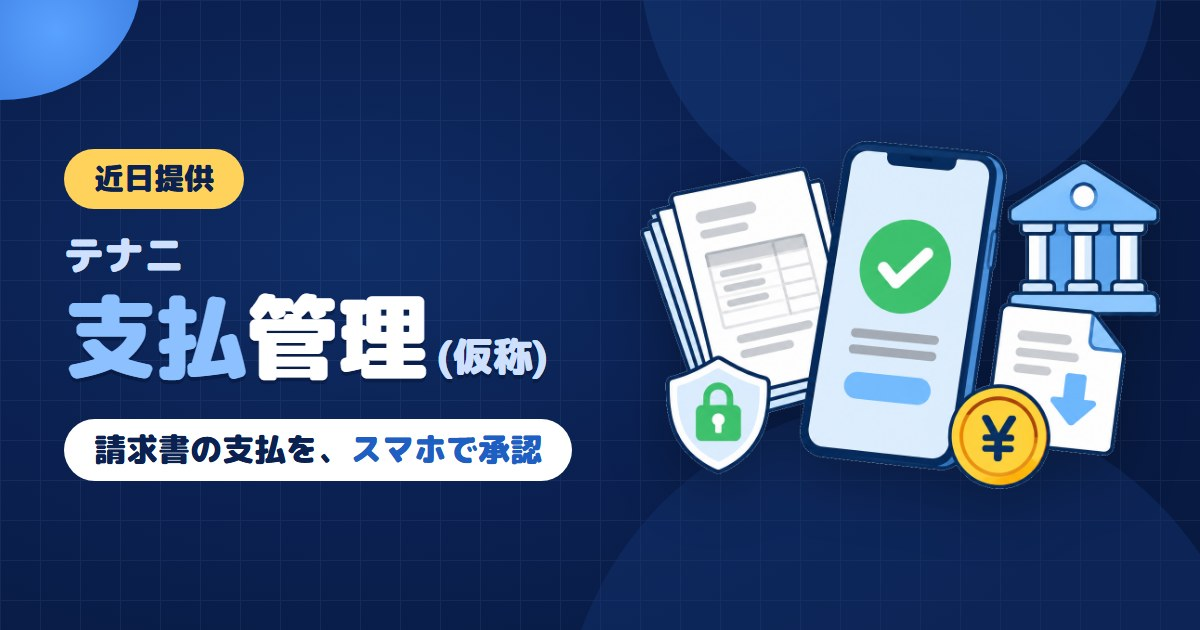
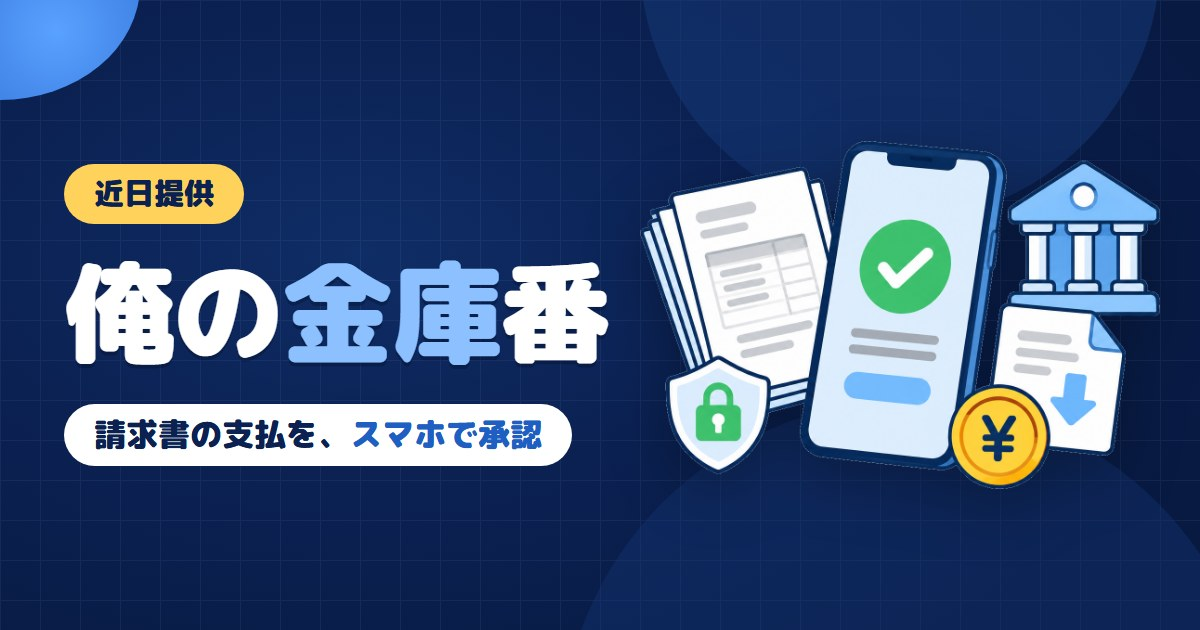
商品名を変更: 名刺・経費クラウド → 俺の精算係、テナニ 支払管理(仮称) → 俺の金庫番。カード画像・画面写真の表示名も差し替え、「テナニ」をサイトから外す
Claude-Session: https://claude.ai/code/session_01P8GfC6i6qUkQG9xHNCAYyn

Changed region(s): [[0.0308, 0.2111, 0.5242, 0.6032], [0.0308, 0.6333, 0.4933, 0.7841]]

diff --git a/meishi-keihi/index.html b/meishi-keihi/index.html
@@ -3,7 +3,7 @@
 <head>
 <meta charset="utf-8">
 <meta name="viewport" content="width=device-width, initial-scale=1, viewport-fit=cover">
-<title>名刺・経費クラウド｜レシートはLINEで送るだけの経費精算・名刺管理｜DX職人</title>
+<title>俺の精算係｜レシートはLINEで送るだけの経費精算・名刺管理｜DX職人</title>
 <meta name="description" content="レシートの写真をLINEで送ると、AIが金額・日付・支払先を読み取ります。事務担当はスマホやパソコンで承認し、freee向けの取込ファイルにまとめます。名刺も同じLINEで登録。一人親方から少人数の工務店まで。">
 <meta name="theme-color" content="#0b1f3f">
 <link rel="icon" type="image/png" sizes="32x32" href="../assets/brand/favicon-32.png">
@@ -14,14 +14,14 @@
 <meta property="og:type" content="website">
 <meta property="og:site_name" content="DX職人">
 <meta property="og:locale" content="ja_JP">
-<meta property="og:title" content="名刺・経費クラウド｜レシートはLINEで送るだけ｜DX職人">
+<meta property="og:title" content="俺の精算係｜レシートはLINEで送るだけ｜DX職人">
 <meta property="og:description" content="レシートの写真をLINEで送ると、AIが金額・日付・支払先を読み取ります。事務担当が承認して、freee向けの取込ファイルに。名刺も同じLINEで登録できます。">
 <meta property="og:url" content="https://dx-syokunin.jp/meishi-keihi/">
 <meta property="og:image" content="https://dx-syokunin.jp/assets/meishi-keihi.jpg">
 <meta name="twitter:card" content="summary_large_image">
-<script type="application/ld+json">{"@context": "https://schema.org", "@graph": [{"@type": "WebPage", "@id": "https://dx-syokunin.jp/meishi-keihi/", "url": "https://dx-syokunin.jp/meishi-keihi/", "name": "名刺・経費クラウド｜レシートはLINEで送るだけの経費精算・名刺管理｜DX職人", "inLanguage": "ja", "isPartOf": {"@id": "https://dx-syokunin.jp/#website"}, "primaryImageOfPage": {"@type": "ImageObject", "url": "https://dx-syokunin.jp/assets/meishi-keihi.jpg"}}, {"@type": "BreadcrumbList", "itemListElement": [{"@type": "ListItem", "position": 1, "name": "DX職人", "item": "https://dx-syokunin.jp/"}, {"@type": "ListItem", "position": 2, "name": "名刺・経費クラウド", "item": "https://dx-syokunin.jp/meishi-keihi/"}]}, {"@type": "FAQPage", "mainEntity": [{"@type": "Question", "name": "現場のスタッフにアプリを入れてもらう必要はありますか？", "acceptedAnswer": {"@type": "Answer", "text": "いりません。会社のLINE公式アカウントを友だち追加して、レシートの写真を送るだけです。事務担当・社長はスマホかパソコンのブラウザで確認します。"}}, {"@type": "Question", "name": "ひとりでも使えますか？", "acceptedAnswer": {"@type": "Answer", "text": "使えます。「ひとり利用」では、承認する人がいなくても、本人が内容を確かめて登録すれば完了です。スタッフがいる会社は「チーム利用」で、スタッフが申請して社長や事務担当が承認します。"}}, {"@type": "Question", "name": "AIが読み間違えたら？", "acceptedAnswer": {"@type": "Answer", "text": "申請の前に、届いたカードをレシートと見比べてもらいます。違うところは「金額」「日付」「支払先」のボタンを押して直せます。読み取れなかったときは、質問に答えるだけで手で登録できます。人が直したところには ✏ の印が付きます。"}}, {"@type": "Question", "name": "freeeに自動で入りますか？", "acceptedAnswer": {"@type": "Answer", "text": "自動では入りません。freeeの「取引のインポート」用のファイルを作るところまでです。そのファイルをfreeeに取り込み、取り込めたことをこの画面に記録してもらいます。一度出力した経費は、次のファイルに自動では入りません。"}}, {"@type": "Question", "name": "freee以外の会計ソフトでも使えますか？", "acceptedAnswer": {"@type": "Answer", "text": "会計用のファイルは、freeeの取引インポートの形だけです。経費の一覧(台帳CSV)は取り出せますが、会計ソフトへの取り込み用ではありません。"}}, {"@type": "Question", "name": "AIにはどんな情報が送られますか？", "acceptedAnswer": {"@type": "Answer", "text": "読み取りのときに、レシートまたは名刺の画像1枚と、読み取りの指示だけを送ります。会社名・利用者の名前・ほかの経費は送りません。送り先はOpenAIで、応答を保存しない設定で送ります。"}}]}]}</script>
+<script type="application/ld+json">{"@context": "https://schema.org", "@graph": [{"@type": "WebPage", "@id": "https://dx-syokunin.jp/meishi-keihi/", "url": "https://dx-syokunin.jp/meishi-keihi/", "name": "俺の精算係｜レシートはLINEで送るだけの経費精算・名刺管理｜DX職人", "inLanguage": "ja", "isPartOf": {"@id": "https://dx-syokunin.jp/#website"}, "primaryImageOfPage": {"@type": "ImageObject", "url": "https://dx-syokunin.jp/assets/meishi-keihi.jpg"}}, {"@type": "BreadcrumbList", "itemListElement": [{"@type": "ListItem", "position": 1, "name": "DX職人", "item": "https://dx-syokunin.jp/"}, {"@type": "ListItem", "position": 2, "name": "俺の精算係", "item": "https://dx-syokunin.jp/meishi-keihi/"}]}, {"@type": "FAQPage", "mainEntity": [{"@type": "Question", "name": "現場のスタッフにアプリを入れてもらう必要はありますか？", "acceptedAnswer": {"@type": "Answer", "text": "いりません。会社のLINE公式アカウントを友だち追加して、レシートの写真を送るだけです。事務担当・社長はスマホかパソコンのブラウザで確認します。"}}, {"@type": "Question", "name": "ひとりでも使えますか？", "acceptedAnswer": {"@type": "Answer", "text": "使えます。「ひとり利用」では、承認する人がいなくても、本人が内容を確かめて登録すれば完了です。スタッフがいる会社は「チーム利用」で、スタッフが申請して社長や事務担当が承認します。"}}, {"@type": "Question", "name": "AIが読み間違えたら？", "acceptedAnswer": {"@type": "Answer", "text": "申請の前に、届いたカードをレシートと見比べてもらいます。違うところは「金額」「日付」「支払先」のボタンを押して直せます。読み取れなかったときは、質問に答えるだけで手で登録できます。人が直したところには ✏ の印が付きます。"}}, {"@type": "Question", "name": "freeeに自動で入りますか？", "acceptedAnswer": {"@type": "Answer", "text": "自動では入りません。freeeの「取引のインポート」用のファイルを作るところまでです。そのファイルをfreeeに取り込み、取り込めたことをこの画面に記録してもらいます。一度出力した経費は、次のファイルに自動では入りません。"}}, {"@type": "Question", "name": "freee以外の会計ソフトでも使えますか？", "acceptedAnswer": {"@type": "Answer", "text": "会計用のファイルは、freeeの取引インポートの形だけです。経費の一覧(台帳CSV)は取り出せますが、会計ソフトへの取り込み用ではありません。"}}, {"@type": "Question", "name": "AIにはどんな情報が送られますか？", "acceptedAnswer": {"@type": "Answer", "text": "読み取りのときに、レシートまたは名刺の画像1枚と、読み取りの指示だけを送ります。会社名・利用者の名前・ほかの経費は送りません。送り先はOpenAIで、応答を保存しない設定で送ります。"}}]}]}</script>
 <link rel="stylesheet" href="../style.css?v=20261019a">
-<link rel="stylesheet" href="lp.css?v=20261025a">
+<link rel="stylesheet" href="lp.css?v=20261026a">
 <script>document.documentElement.classList.add('has-js');</script>
 <script async src="https://www.googletagmanager.com/gtag/js?id=G-XTC6JTLR8Z"></script>
 <script>window.dataLayer=window.dataLayer||[];function gtag(){dataLayer.push(arguments)}gtag('js',new Date());gtag('config','G-XTC6JTLR8Z');</script>
@@ -88,7 +88,7 @@
 <section class="mk-hero" aria-labelledby="mk-title">
   <div class="wrap mk-hero__inner">
     <div class="mk-hero__text">
-      <nav class="crumb mk-crumb" aria-label="現在の位置"><ol><li><a href="../">DX職人</a></li><li><a href="../#system">システム提供</a></li><li aria-current="page">名刺・経費クラウド</li></ol></nav>
+      <nav class="crumb mk-crumb" aria-label="現在の位置"><ol><li><a href="../">DX職人</a></li><li><a href="../#system">システム提供</a></li><li aria-current="page">俺の精算係</li></ol></nav>
       <p class="mk-eyebrow">経費精算・名刺管理 × LINE</p>
       <h1 id="mk-title"><span class="ph">レシートは、</span><br><span class="ph"><em>LINEで送るだけ。</em></span></h1>
       <p class="mk-hero__lead">現場で立て替えたレシートも、月末の打ち込みも、たまった名刺も。<br class="pc-only">現場の人はいつものLINE、事務担当はスマホかパソコンの画面で片づける、経費精算と名刺管理のシステムです。</p>
@@ -531,7 +531,7 @@
       <a class="cta dark" href="../contact/">フォームで相談する</a>
       <a class="cta light" href="https://lin.ee/XTtHzzq" target="_blank" rel="noopener">LINEで相談する</a>
     </div>
-    <p class="contact__note">相談は無料です。「名刺・経費クラウドについて」とひとことお送りください。</p>
+    <p class="contact__note">相談は無料です。「俺の精算係について」とひとことお送りください。</p>
     <p class="contact__mail">メールでのご相談も受け付けています：<a href="mailto:info@senwa-inc.com">info@senwa-inc.com</a></p>
   </div>
 </section>
@@ -559,7 +559,7 @@
 </footer>
 
 <div class="mobile-cta" id="mobileCta">
-  <a class="cta" href="../contact/">名刺・経費クラウドの導入を相談する</a>
+  <a class="cta" href="../contact/">俺の精算係の導入を相談する</a>
 </div>
 
 <script src="../script.js?v=20261019a" defer></script>

diff --git a/shiharai-kanri/index.html b/shiharai-kanri/index.html
@@ -3,7 +3,7 @@
 <head>
 <meta charset="utf-8">
 <meta name="viewport" content="width=device-width, initial-scale=1, viewport-fit=cover">
-<title>テナニ 支払管理(仮称)｜請求書の支払を社長がスマホで承認し、振込ファイルまで｜DX職人</title>
+<title>俺の金庫番｜請求書の支払を社長がスマホで承認し、振込ファイルまで｜DX職人</title>
 <meta name="description" content="取引先から届いた請求書を登録し、社長がスマホで金額・相手・振込先を確かめて承認。承認した内容から銀行に持ち込む振込ファイル(全銀形式)を作り、銀行の明細と照らして支払済みを記録します。経理担当と社長のいる会社向け。近日提供。">
 <meta name="theme-color" content="#0b1f3f">
 <link rel="icon" type="image/png" sizes="32x32" href="../assets/brand/favicon-32.png">
@@ -14,12 +14,12 @@
 <meta property="og:type" content="website">
 <meta property="og:site_name" content="DX職人">
 <meta property="og:locale" content="ja_JP">
-<meta property="og:title" content="テナニ 支払管理(仮称)｜請求書の支払、社長はスマホで承認｜DX職人">
+<meta property="og:title" content="俺の金庫番｜請求書の支払、社長はスマホで承認｜DX職人">
 <meta property="og:description" content="請求書を登録し、社長がスマホで承認。承認した内容から銀行に持ち込む振込ファイル(全銀形式)を作り、銀行の明細と照らして支払済みを記録します。近日提供。">
 <meta property="og:url" content="https://dx-syokunin.jp/shiharai-kanri/">
 <meta property="og:image" content="https://dx-syokunin.jp/assets/shiharai-kanri.jpg">
 <meta name="twitter:card" content="summary_large_image">
-<script type="application/ld+json">{"@context": "https://schema.org", "@graph": [{"@type": "WebPage", "@id": "https://dx-syokunin.jp/shiharai-kanri/", "url": "https://dx-syokunin.jp/shiharai-kanri/", "name": "テナニ 支払管理(仮称)｜請求書の支払を社長がスマホで承認し、振込ファイルまで｜DX職人", "inLanguage": "ja", "isPartOf": {"@id": "https://dx-syokunin.jp/#website"}, "primaryImageOfPage": {"@type": "ImageObject", "url": "https://dx-syokunin.jp/assets/shiharai-kanri.jpg"}}, {"@type": "BreadcrumbList", "itemListElement": [{"@type": "ListItem", "position": 1, "name": "DX職人", "item": "https://dx-syokunin.jp/"}, {"@type": "ListItem", "position": 2, "name": "テナニ 支払管理(仮称)", "item": "https://dx-syokunin.jp/shiharai-kanri/"}]}, {"@type": "FAQPage", "mainEntity": [{"@type": "Question", "name": "銀行に自動で振り込みますか？", "acceptedAnswer": {"@type": "Answer", "text": "いいえ。銀行に持ち込む振込ファイル(全銀形式)を作るところまでです。ファイルを銀行の法人向けネットバンキングに取り込んで振り込む操作は、お客さまが銀行の画面で行います。"}}, {"@type": "Question", "name": "どの銀行で使えますか？", "acceptedAnswer": {"@type": "Answer", "text": "全銀協が決めた形(総合振込)のファイルを作ります。ただし、特定の銀行で実際に取り込めるかは、まだ確かめていません。導入のときに、お使いの銀行で確かめていただく必要があります。"}}, {"@type": "Question", "name": "社長はスマホで承認できますか？", "acceptedAnswer": {"@type": "Answer", "text": "できます。スマホのブラウザで、金額・相手・振込先(口座番号の下4桁と名義)・予定日・請求書を見て「承認する」か「差し戻す」を押します。承認しただけでは振込は行われません。"}}, {"@type": "Question", "name": "社長がひとりで全部やることはできますか？", "acceptedAnswer": {"@type": "Answer", "text": "できません。支払予定を作った本人は、その予定を承認できない作りです。請求を登録する人と承認する人の、少なくとも2人が要ります。"}}, {"@type": "Question", "name": "請求書を写真で読み取りますか？", "acceptedAnswer": {"@type": "Answer", "text": "読み取りません。請求書のPDFや写真は「原本」として付けて保存し、金額などは人が入力します。"}}]}]}</script>
+<script type="application/ld+json">{"@context": "https://schema.org", "@graph": [{"@type": "WebPage", "@id": "https://dx-syokunin.jp/shiharai-kanri/", "url": "https://dx-syokunin.jp/shiharai-kanri/", "name": "俺の金庫番｜請求書の支払を社長がスマホで承認し、振込ファイルまで｜DX職人", "inLanguage": "ja", "isPartOf": {"@id": "https://dx-syokunin.jp/#website"}, "primaryImageOfPage": {"@type": "ImageObject", "url": "https://dx-syokunin.jp/assets/shiharai-kanri.jpg"}}, {"@type": "BreadcrumbList", "itemListElement": [{"@type": "ListItem", "position": 1, "name": "DX職人", "item": "https://dx-syokunin.jp/"}, {"@type": "ListItem", "position": 2, "name": "俺の金庫番", "item": "https://dx-syokunin.jp/shiharai-kanri/"}]}, {"@type": "FAQPage", "mainEntity": [{"@type": "Question", "name": "銀行に自動で振り込みますか？", "acceptedAnswer": {"@type": "Answer", "text": "いいえ。銀行に持ち込む振込ファイル(全銀形式)を作るところまでです。ファイルを銀行の法人向けネットバンキングに取り込んで振り込む操作は、お客さまが銀行の画面で行います。"}}, {"@type": "Question", "name": "どの銀行で使えますか？", "acceptedAnswer": {"@type": "Answer", "text": "全銀協が決めた形(総合振込)のファイルを作ります。ただし、特定の銀行で実際に取り込めるかは、まだ確かめていません。導入のときに、お使いの銀行で確かめていただく必要があります。"}}, {"@type": "Question", "name": "社長はスマホで承認できますか？", "acceptedAnswer": {"@type": "Answer", "text": "できます。スマホのブラウザで、金額・相手・振込先(口座番号の下4桁と名義)・予定日・請求書を見て「承認する」か「差し戻す」を押します。承認しただけでは振込は行われません。"}}, {"@type": "Question", "name": "社長がひとりで全部やることはできますか？", "acceptedAnswer": {"@type": "Answer", "text": "できません。支払予定を作った本人は、その予定を承認できない作りです。請求を登録する人と承認する人の、少なくとも2人が要ります。"}}, {"@type": "Question", "name": "請求書を写真で読み取りますか？", "acceptedAnswer": {"@type": "Answer", "text": "読み取りません。請求書のPDFや写真は「原本」として付けて保存し、金額などは人が入力します。"}}]}]}</script>
 <link rel="stylesheet" href="../style.css?v=20261026a">
 <link rel="stylesheet" href="lp.css?v=20261026a">
 <script>document.documentElement.classList.add('has-js');</script>
@@ -86,9 +86,9 @@
 <section class="sk-hero" aria-labelledby="sk-title">
   <div class="wrap sk-hero__inner">
     <div class="sk-hero__text">
-      <nav class="crumb sk-crumb" aria-label="現在の位置"><ol><li><a href="../">DX職人</a></li><li><a href="../#system">システム提供</a></li><li aria-current="page">テナニ 支払管理(仮称)</li></ol></nav>
+      <nav class="crumb sk-crumb" aria-label="現在の位置"><ol><li><a href="../">DX職人</a></li><li><a href="../#system">システム提供</a></li><li aria-current="page">俺の金庫番</li></ol></nav>
       <p class="sk-eyebrow"><span class="sk-soon">近日提供</span>請求書の支払・振込</p>
-      <p class="sk-name">テナニ 支払管理<small>(仮称)</small></p>
+      <p class="sk-name">俺の金庫番</p>
       <h1 id="sk-title"><span class="ph">請求書の支払、</span><br><span class="ph"><em>社長はスマホで承認。</em></span></h1>
       <p class="sk-hero__lead">取引先から届いた請求書を登録し、社長がスマホで金額・相手・振込先を確かめて承認。<br class="pc-only">承認した内容から、銀行に持ち込む振込ファイル(全銀形式)を作り、銀行の明細と照らして支払済みを記録します。</p>
       <ul class="sk-hero__points">

diff --git a/index.html b/index.html
@@ -671,9 +671,9 @@
         <p class="fine">「俺の事務員」のサイト(line-jimuin.link)が開きます。</p>
       </article>
       <article class="product-card" id="meishi-keihi">
-        <a class="product-card__hero" href="meishi-keihi/"><img src="assets/meishi-keihi.jpg" width="1200" height="630" loading="lazy" alt="名刺・経費クラウド - レシートをLINEで送って経費精算と名刺管理"></a>
+        <a class="product-card__hero" href="meishi-keihi/"><img src="assets/meishi-keihi.jpg" width="1200" height="630" loading="lazy" alt="俺の精算係 - レシートをLINEで送って経費精算と名刺管理"></a>
         <span class="product-card__tag">経費精算・名刺管理</span>
-        <h3 class="product-card__name">名刺・経費クラウド</h3>
+        <h3 class="product-card__name">俺の精算係</h3>
         <p class="product-card__catch"><span class="ph">レシートはLINEで送るだけ。</span><span class="ph">経費の精算と名刺の整理に。</span></p>
         <p class="product-card__text">レシートの写真をLINEで送ると、AIが金額・日付・支払先を読み取ります。確かめて申請し、事務担当がスマホやパソコンで承認。freee向けの取込ファイルにまとめます。名刺も同じLINEで登録できます。一人親方から少人数の会社向けです。</p>
         <ul class="check-list">
@@ -681,17 +681,17 @@
           <li><svg class="icon" aria-hidden="true"><use href="#i-circle-check"/></svg>読めない時はボタンで答えて手入力</li>
           <li><svg class="icon" aria-hidden="true"><use href="#i-circle-check"/></svg>freee向けの取込ファイルを作成</li>
         </ul>
-        <a class="cta" href="meishi-keihi/">名刺・経費クラウドを詳しく見る<svg class="icon" aria-hidden="true"><use href="#i-arrow-right"/></svg></a>
-        <p class="fine">名刺・経費クラウドの紹介ページが開きます。</p>
+        <a class="cta" href="meishi-keihi/">俺の精算係を詳しく見る<svg class="icon" aria-hidden="true"><use href="#i-arrow-right"/></svg></a>
+        <p class="fine">俺の精算係の紹介ページが開きます。</p>
       </article>
     </div>
     <div class="system-web">
       <p class="system-web__label"><span class="system-web__title">スマホで承認・振込ファイル作成</span><span class="system-web__note">スマホやパソコンのブラウザで使うシステムです。</span></p>
       <article class="product-card product-card--web" id="shiharai-kanri">
-        <a class="product-card__hero" href="shiharai-kanri/"><img src="assets/shiharai-kanri.jpg" width="1200" height="630" loading="lazy" alt="テナニ 支払管理(仮称) - 請求書の支払を、スマホで承認"></a>
+        <a class="product-card__hero" href="shiharai-kanri/"><img src="assets/shiharai-kanri.jpg" width="1200" height="630" loading="lazy" alt="俺の金庫番 - 請求書の支払を、スマホで承認"></a>
         <div class="product-card__body">
           <p class="product-card__tags"><span class="product-card__tag">請求書の支払・振込</span><span class="product-card__soon">近日提供</span></p>
-          <h3 class="product-card__name">テナニ 支払管理<small>(仮称)</small></h3>
+          <h3 class="product-card__name">俺の金庫番</h3>
           <p class="product-card__catch"><span class="ph">請求書の支払、社長はスマホで承認。</span><span class="ph">振込ファイルまで打ち直しなし。</span></p>
           <p class="product-card__text">取引先から届いた請求書を登録し、社長がスマホで金額・相手・振込先を確かめて承認。承認した内容から銀行に持ち込む振込ファイル(全銀形式)を作り、銀行の明細と照らして支払済みを記録します。経理担当と社長のいる会社向けです。</p>
           <ul class="check-list">
@@ -699,7 +699,7 @@
             <li><svg class="icon" aria-hidden="true"><use href="#i-circle-check"/></svg>振込先のすり替え・二重払いを防ぐ</li>
             <li><svg class="icon" aria-hidden="true"><use href="#i-circle-check"/></svg>銀行の明細と照らして支払済みに</li>
           </ul>
-          <a class="cta" href="shiharai-kanri/">支払管理を詳しく見る<svg class="icon" aria-hidden="true"><use href="#i-arrow-right"/></svg></a>
+          <a class="cta" href="shiharai-kanri/">俺の金庫番を詳しく見る<svg class="icon" aria-hidden="true"><use href="#i-arrow-right"/></svg></a>
           <p class="fine">販売開始前です。料金・お申し込み方法は、決まりしだいご案内します。</p>
         </div>
       </article>

diff --git a/shiharai-kanri/lp.js b/shiharai-kanri/lp.js
@@ -1,4 +1,4 @@
-/* テナニ 支払管理(仮称) LP: 社長がスマホで承認する流れの再現(文言は製品の画面の原文) */
+/* 俺の金庫番 LP: 社長がスマホで承認する流れの再現(文言は製品の画面の原文) */
 (function () {
   'use strict';
 
@@ -32,8 +32,8 @@
   function clearTimers() { timers.forEach(clearTimeout); timers = []; }
 
   function bar(on) {
-    if (!on) return '<div class="sk-app__bar"><p class="sk-app__title">TENANi 支払管理</p></div>';
-    return '<div class="sk-app__bar"><p class="sk-app__title">TENANi 支払管理</p><p class="sk-app__nav">' +
+    if (!on) return '<div class="sk-app__bar"><p class="sk-app__title">俺の金庫番</p></div>';
+    return '<div class="sk-app__bar"><p class="sk-app__title">俺の金庫番</p><p class="sk-app__nav">' +
       NAV.map(function (n) { return '<span' + (n === on ? ' class="is-on"' : '') + '>' + n + '</span>'; }).join('') + '</p></div>';
   }
 
@@ -57,7 +57,7 @@
   function login() {
     render(bar() +
       '<div class="sk-app__body"><div class="sk-app__center">' +
-        '<h4>TENANi 支払管理</h4>' +
+        '<h4>俺の金庫番</h4>' +
         '<div class="sk-app__box">' +
           '<span class="sk-app__label">会社コード</span><span class="sk-app__input">kakuu-koumuten</span>' +
           '<span class="sk-app__label">メールアドレス</span><span class="sk-app__input">taro@example.jp</span>' +

diff --git a/contact/index.html b/contact/index.html
@@ -139,7 +139,7 @@
             <label class="chip"><input type="checkbox" name="ご相談内容" value="助成金の活用"><span>助成金の活用</span></label>
             <label class="chip"><input type="checkbox" name="ご相談内容" value="LINEで使えるシステム"><span>LINEで使えるシステム</span></label>
             <label class="chip"><input type="checkbox" name="ご相談内容" value="俺の事務員"><span>俺の事務員</span></label>
-            <label class="chip"><input type="checkbox" name="ご相談内容" value="名刺・経費クラウド"><span>名刺・経費クラウド</span></label>
+            <label class="chip"><input type="checkbox" name="ご相談内容" value="俺の精算係"><span>俺の精算係</span></label>
             <label class="chip"><input type="checkbox" name="ご相談内容" value="まだ決まっていない"><span>まだ決まっていない</span></label>
           </div>
         </div>

diff --git a/shiharai-kanri/lp.css b/shiharai-kanri/lp.css
@@ -1,5 +1,5 @@
 /* ==========================================================
-   テナニ 支払管理(仮称) LP(../style.css の上に重ねる)
+   俺の金庫番 LP(../style.css の上に重ねる)
    ========================================================== */
 .sk { --sk-blue: #1f5fc4; --sk-blue-hover: #174b9c; --sk-sky: #8cc0ff; --sk-tint: #eaf2ff; --sk-red: #c0362c; --app-bg: #f4f6f9; }
 

diff --git a/meishi-keihi/lp.css b/meishi-keihi/lp.css
@@ -1,5 +1,5 @@
 /* ==========================================================
-   名刺・経費クラウド LP(../style.css の上に重ねる)
+   俺の精算係 LP(../style.css の上に重ねる)
    ========================================================== */
 .mk { --line-bg: #8cabd9; --line-me: #06c755; --flex-green: #06c755; --flex-navy: #0b1f3f; }
 

diff --git a/meishi-keihi/lp.js b/meishi-keihi/lp.js
@@ -1,4 +1,4 @@
-/* 名刺・経費クラウド LP: LINEのトークの再現(文言は製品の原文。店名・金額・番号は架空) */
+/* 俺の精算係 LP: LINEのトークの再現(文言は製品の原文。店名・金額・番号は架空) */
 (function () {
   'use strict';
 
